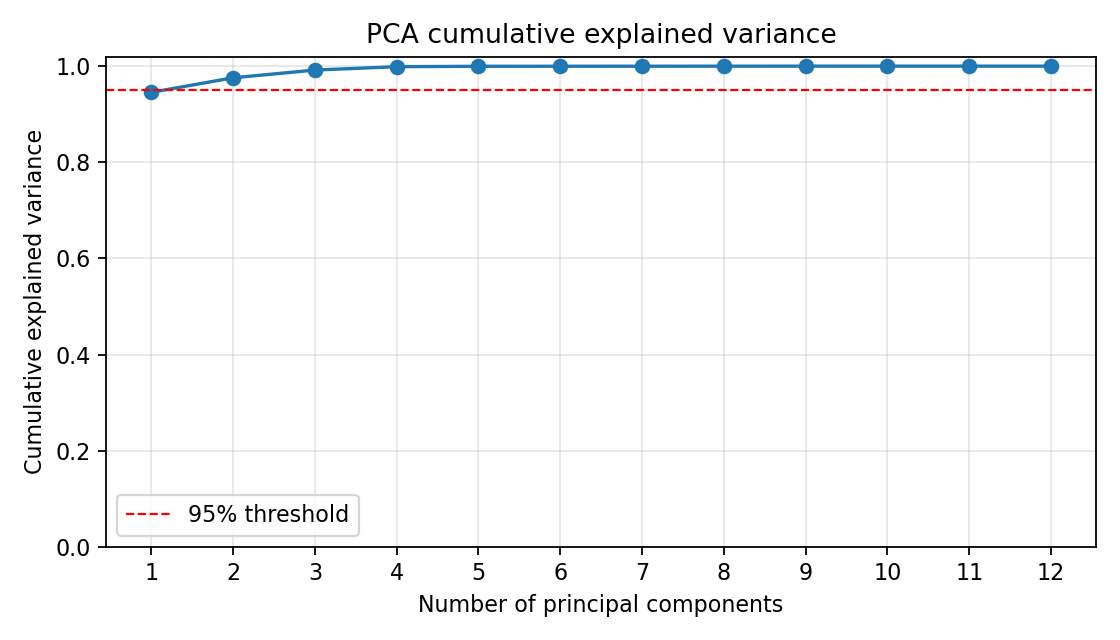
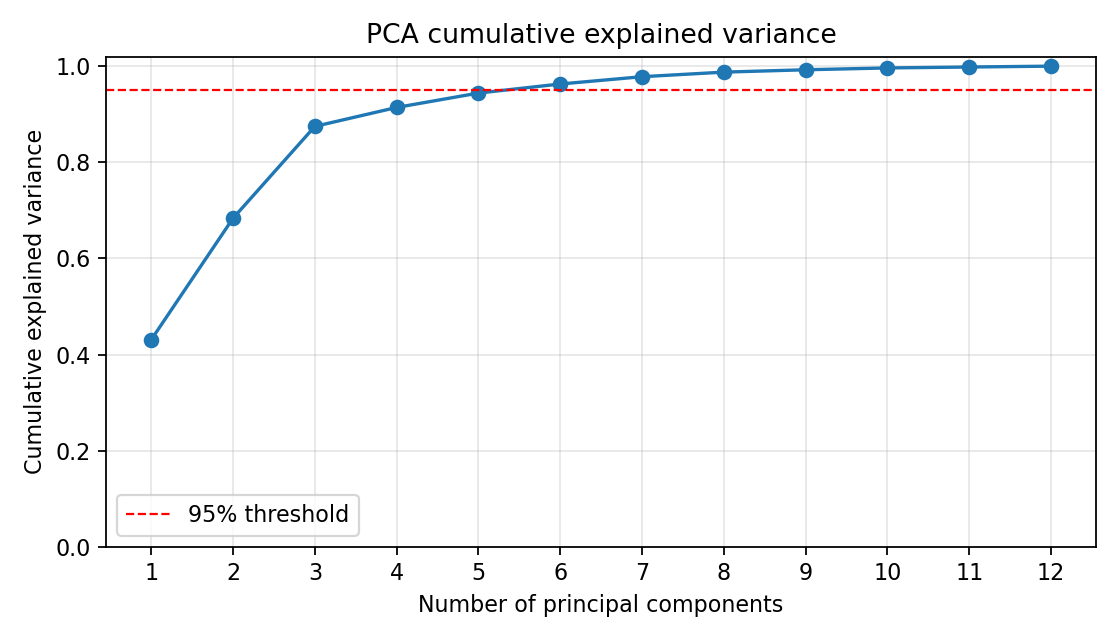
final stuff

diff --git a/rl_dart_6dof/env.py b/rl_dart_6dof/env.py
@@ -53,6 +53,7 @@ class DartEnv:
         # Throw / board parameters
         self.g = 9.81
         self.release_height = 1.5  # meters above ground plane
+        self.min_release_steps = 10  # prevents trivial immediate-release solutions
 
         # "Dartboard" is on ground plane at y=0, centered at x=target_x
         self.target_x = 3.0
@@ -63,11 +64,21 @@ class DartEnv:
         self._angles = np.zeros(6, dtype=np.float32)
         self._vels = np.zeros(6, dtype=np.float32)
 
-        # Fixed random projection from joint features -> release velocity (structured but simple)
-        # Features: [sin(theta), cos(theta), v] (18 dims) -> v_xyz (3 dims)
-        w = self.rng.normal(0.0, 1.0, size=(3, 18)).astype(np.float32)
-        w /= np.linalg.norm(w, axis=1, keepdims=True) + 1e-8
-        self._W_vel = w
+        # Reward shaping (accuracy-first)
+        # - A dense shaping term uses the distance-to-target you'd get if you released NOW.
+        # - Final reward on release is a sharp function of landing distance (dominant signal).
+        # - Timeout is strongly negative to avoid "never release".
+        self.step_penalty = 0.005
+        self.timeout_penalty = 100.0
+
+        # Distance shaping weights
+        self.shaping_dist_weight = 0.05  # per-step shaping: -w * predicted_dist
+        self.hit_sigma = 0.25  # meters, controls sharpness of hit reward
+        self.release_dist_penalty = 5.0  # subtract on release: encourages accuracy (meters)
+
+        # Note: release velocity model is deterministic and structured to be learnable:
+        # joint0 -> azimuth (left/right), joint1 -> elevation (up/down),
+        # remaining joints/velocities modulate speed.
 
     def reset(self) -> np.ndarray:
         self._t = 0
@@ -91,42 +102,66 @@ class DartEnv:
 
         self._t += 1
 
-        # 2) Release -> simulate projectile and score
+        # 2) Dense shaping: how close we'd land if we released right now
+        pred_xy = self._simulate_landing_xy()
+        pred_dist = float(np.sqrt((pred_xy[0] - self.target_x) ** 2 + (pred_xy[1] - self.target_y) ** 2))
+
+        # 3) Release -> simulate projectile and score
         done = False
-        reward = 0.0
+        # Encourage the policy to eventually raise the release signal after it is allowed to release.
+        can_release = self._t >= self.min_release_steps
+        release_enc = (0.5 * release) if can_release else 0.0
+        reward = -self.step_penalty - self.shaping_dist_weight * pred_dist + float(release_enc)
         info = StepInfo(released=False, landing_xy=None, score=0.0)
 
-        if release >= self.release_threshold or self._t >= self.max_steps:
+        if (can_release and release >= self.release_threshold) or self._t >= self.max_steps:
             done = True
-            released = release >= self.release_threshold
+            released = bool(can_release and release >= self.release_threshold)
             landing = self._simulate_landing_xy()
+            dist = float(np.sqrt((landing[0] - self.target_x) ** 2 + (landing[1] - self.target_y) ** 2))
             score = self._dartboard_score(landing[0], landing[1])
-            # Reward: score if released, otherwise small penalty for timing out
-            reward = float(score if released else 0.1 * score)
+
+            # Reward:
+            # - If released: accuracy-dominant reward based on landing distance, plus a small score term.
+            # - If timed out: strong negative penalty.
+            if released:
+                # Gaussian hit reward in [0, 100], sharply peaked at the target center.
+                hit = 100.0 * float(np.exp(-0.5 * (dist / self.hit_sigma) ** 2))
+                reward = float(hit + 0.2 * score - self.release_dist_penalty * dist)
+            else:
+                reward = float(-self.timeout_penalty)
             info = StepInfo(released=released, landing_xy=landing, score=float(score))
 
-        return self._get_state(), reward, done, {"info": info}
+        return self._get_state(), reward, done, {"info": info, "t": self._t, "pred_dist": pred_dist}
 
     def _get_state(self) -> np.ndarray:
         return np.concatenate([self._angles, self._vels], axis=0).astype(np.float32)
 
     def _release_velocity_xyz(self) -> np.ndarray:
-        # A simple "kinematic" map from joint pose/velocity to a 3D release velocity.
-        s = np.sin(self._angles)
-        c = np.cos(self._angles)
-        feats = np.concatenate([s, c, self._vels], axis=0).astype(np.float32)  # (18,)
-        v = self._W_vel @ feats  # (3,)
+        # Deterministic "throw kinematics" that is easier to learn to aim with.
+        # Azimuth (left/right) and elevation (up/down) come from two joints.
+        az = float(self._angles[0])          # yaw-like
+        el = float(self._angles[1])          # pitch-like
 
-        # Encourage realistic directionality: mostly forward (+x) and mild upward (+z)
-        v[0] = abs(v[0]) + 6.0
-        v[1] = 0.2 * v[1]
-        v[2] = 0.5 * v[2] + 2.0
+        # Map remaining joint speeds into a positive forward speed.
+        # Use a smooth, bounded function so learning is stable.
+        vmag = float(np.linalg.norm(self._vels[2:]))  # joints 2..5 contribute
+        speed = 6.0 + 6.0 * float(np.tanh(0.25 * vmag))  # in ~[6,12)
 
-        # Cap speed to avoid extreme outliers early in training
-        speed = float(np.linalg.norm(v))
-        if speed > 20.0:
-            v *= 20.0 / (speed + 1e-8)
-        return v.astype(np.float32)
+        # Clamp angles to plausible throwing ranges.
+        az = float(np.clip(az, -0.8, 0.8))
+        el = float(np.clip(el, -0.2, 1.0))
+
+        # Convert to Cartesian velocity.
+        vx = speed * float(np.cos(el)) * float(np.cos(az))
+        vy = speed * float(np.cos(el)) * float(np.sin(az))
+        vz = speed * float(np.sin(el)) + 1.5  # baseline upward component
+
+        # Mild caps (safety)
+        vx = float(np.clip(vx, 0.5, 20.0))
+        vy = float(np.clip(vy, -10.0, 10.0))
+        vz = float(np.clip(vz, -2.0, 15.0))
+        return np.asarray([vx, vy, vz], dtype=np.float32)
 
     def _simulate_landing_xy(self) -> tuple[float, float]:
         # Release from origin at height h; land when z(t)=0.

diff --git a/rl_dart_6dof/evaluate.py b/rl_dart_6dof/evaluate.py
@@ -57,11 +57,14 @@ def collect_trajectories(
     n_episodes: int,
 ) -> list[dict]:
     runs: list[dict] = []
+    release_flags: list[float] = []
+    landing_dists: list[float] = []
     with torch.no_grad():
         for _ in range(n_episodes):
             log = TrajectoryLogger()
             s = env.reset()
             done = False
+            last_info = None
             while not done:
                 st = to_tensor(s, device=device).unsqueeze(0)
                 raw = actor(st).squeeze(0).cpu().numpy()
@@ -69,7 +72,22 @@ def collect_trajectories(
                 s2, r, done, _ = env.step(a)
                 log.add(s, a, r)
                 s = s2
+                last_info = _["info"]
             runs.append(log.as_arrays())
+            if last_info is not None:
+                release_flags.append(1.0 if last_info.released else 0.0)
+                if last_info.landing_xy is not None:
+                    x, y = last_info.landing_xy
+                    d = float(np.sqrt((x - env.target_x) ** 2 + (y - env.target_y) ** 2))
+                    landing_dists.append(d)
+    if release_flags:
+        runs.append(
+            {
+                "_meta_release_rate": float(np.mean(release_flags)),
+                "_meta_mean_dist": float(np.mean(landing_dists)) if landing_dists else float("nan"),
+                "_meta_std_dist": float(np.std(landing_dists)) if landing_dists else float("nan"),
+            }
+        )
     return runs
 
 
@@ -116,6 +134,9 @@ def main() -> None:
     )
 
     runs = collect_trajectories(env, actor, device, args.episodes)
+    meta = runs[-1] if isinstance(runs[-1], dict) and any(k.startswith("_meta_") for k in runs[-1].keys()) else None
+    if meta is not None:
+        runs = runs[:-1]
 
     # Concatenate all timesteps: state features for PCA (angles + velocities)
     state_rows: list[np.ndarray] = []
@@ -146,6 +167,9 @@ def main() -> None:
     for i, r_i in enumerate(explained[:12], start=1):
         print(f"  PC{i}: {r_i:.4f} (cum: {cumulative[i-1]:.4f})")
     print(f"Effective DOF (95% variance): {dof_95}")
+    if meta is not None:
+        print(f"Release rate: {meta['_meta_release_rate']:.3f}")
+        print(f"Mean landing distance to target (m): {meta['_meta_mean_dist']:.4f} (std {meta['_meta_std_dist']:.4f})")
 
     torque_var = np.var(torque, axis=0)
     print("Per-joint torque variance:")

diff --git a/rl_dart_6dof/train.py b/rl_dart_6dof/train.py
@@ -88,6 +88,7 @@ def train(cfg: Config) -> None:
 
     actor = PolicyNet(cfg.state_dim, cfg.action_dim).to(device)
     critic = CriticNet(cfg.state_dim, cfg.action_dim).to(device)
+    target_actor = make_target(actor).to(device)
     target_critic = make_target(critic).to(device)
 
     actor_opt = Adam(actor.parameters(), lr=cfg.actor_lr)
@@ -102,6 +103,8 @@ def train(cfg: Config) -> None:
     ep_reward = 0.0
     ep_len = 0
     best_eval = -1e18
+    releases_in_last = 0
+    episodes_in_last = 0
 
     for step in range(1, cfg.total_env_steps + 1):
         # --- action ---
@@ -121,8 +124,16 @@ def train(cfg: Config) -> None:
         ep_reward += r
         ep_len += 1
         if done:
+            # Track whether this episode actually released
+            # (Using the executed env action's release dim)
+            released = float(a_env[6] >= cfg.release_threshold)
+            releases_in_last += int(released)
+            episodes_in_last += 1
             if step % 1000 == 0:
-                print(f"step={step} last_ep_reward={ep_reward:.3f} ep_len={ep_len}")
+                rel_rate = releases_in_last / max(1, episodes_in_last)
+                print(f"step={step} last_ep_reward={ep_reward:.3f} ep_len={ep_len} release_rate~{rel_rate:.2f}")
+                releases_in_last = 0
+                episodes_in_last = 0
             ep_reward = 0.0
             ep_len = 0
 
@@ -137,7 +148,8 @@ def train(cfg: Config) -> None:
                 bd = to_tensor(b.done, device)
 
                 with torch.no_grad():
-                    next_raw = actor(bns)
+                    # True DDPG target: use target_actor and target_critic
+                    next_raw = target_actor(bns)
                     next_a = env_action_torch(next_raw)
                     target_q = br + cfg.gamma * (1.0 - bd) * target_critic(bns, next_a)
 
@@ -157,6 +169,7 @@ def train(cfg: Config) -> None:
                 actor_opt.step()
 
                 soft_update(target_critic, critic, cfg.tau)
+                soft_update(target_actor, actor, cfg.tau)
 
         if step % cfg.eval_every_steps == 0 and step >= cfg.start_steps:
             stats = evaluate_policy(env, actor, device, cfg.eval_episodes)
@@ -167,6 +180,7 @@ def train(cfg: Config) -> None:
                 torch.save(
                     {
                         "actor": actor.state_dict(),
+                        "target_actor": target_actor.state_dict(),
                         "critic": critic.state_dict(),
                         "target_critic": target_critic.state_dict(),
                         "cfg": asdict(cfg),
@@ -179,6 +193,7 @@ def train(cfg: Config) -> None:
     torch.save(
         {
             "actor": actor.state_dict(),
+            "target_actor": target_actor.state_dict(),
             "critic": critic.state_dict(),
             "target_critic": target_critic.state_dict(),
             "cfg": asdict(cfg),

diff --git a/rl_dart_6dof/config.py b/rl_dart_6dof/config.py
@@ -12,7 +12,7 @@ class Config:
     # Environment
     max_steps: int = 80
     dt: float = 0.04
-    release_threshold: float = 0.75
+    release_threshold: float = 0.40
 
     # RL
     gamma: float = 0.99
@@ -29,7 +29,7 @@ class Config:
 
     # Exploration noise (Gaussian on torques, mild on release)
     action_noise_std: float = 0.20
-    release_noise_std: float = 0.05
+    release_noise_std: float = 0.25
     action_noise_clip: float = 0.50
 
     # Training loop